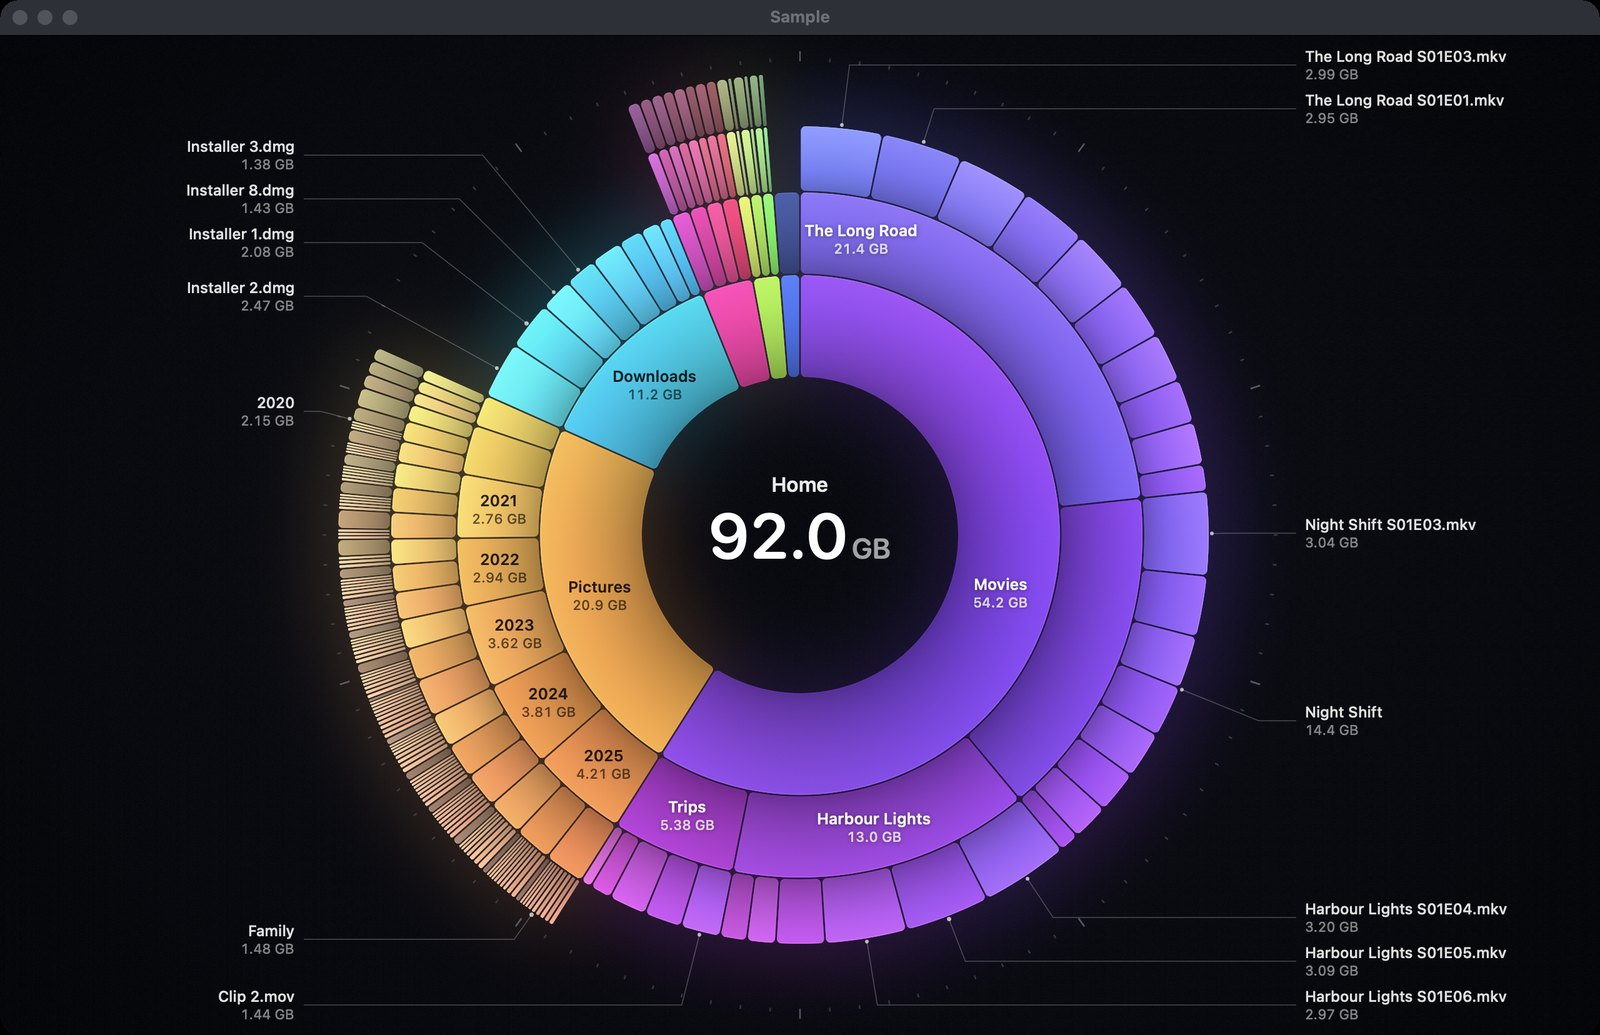
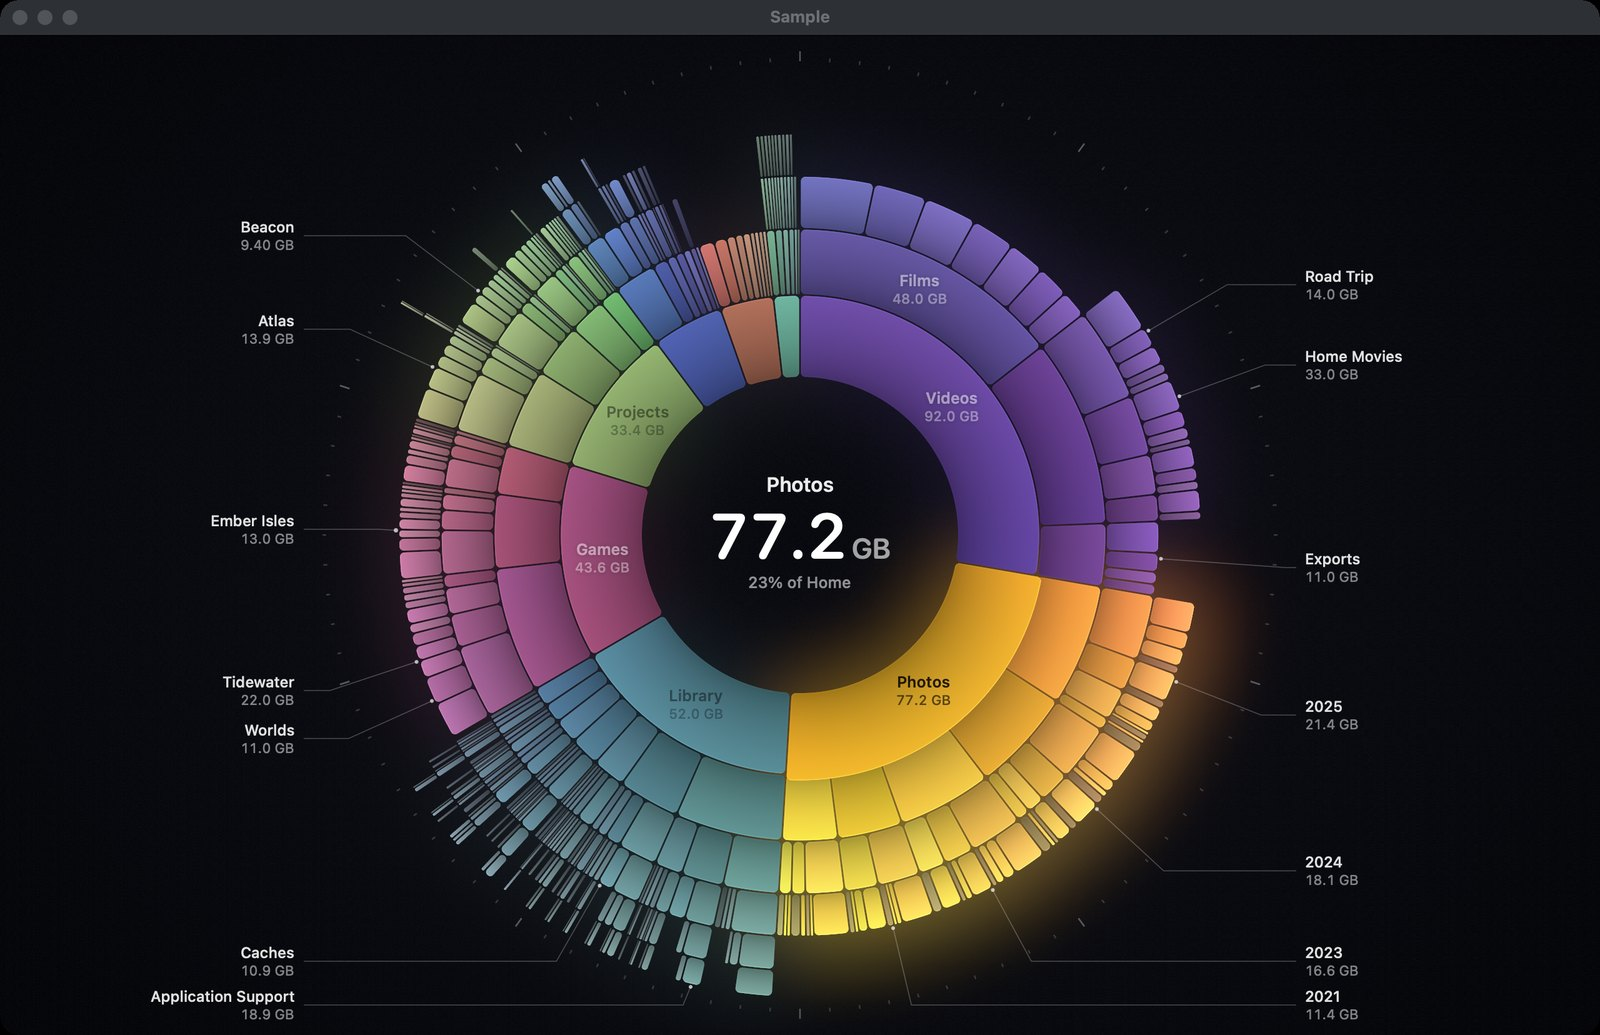
docs(sunburstkit): a sample shaped like a real home folder, and new pictures
The example's sample was built for testing: hundreds of near-equal files
made the edge of the ring bristle, and one branch took half of it. It's
now shaped like a real home folder: seven branches of different sizes,
some flat, some a few levels deep and a few that go on and on, with
photos and music at their real sizes, gathered where they're too small
to draw. The README shows it with Photos pointed at, and zoomed in.

diff --git a/Examples/FolderMap/Sources/FolderMap/FileTree.swift b/Examples/FolderMap/Sources/FolderMap/FileTree.swift
@@ -96,55 +96,144 @@ extension FileTree {
         return total
     }
 
-    /// A made-up home folder, the same every time, for a first look without reading the disk.
+    /// A made-up home folder, the same every time, for a first look without reading the disk. It's shaped like a real one:
+    /// some branches flat, some a few levels deep, and a few that go on and on, with sizes split unevenly at every level.
     static func sample() -> FileTree {
         var tree = FileTree(rootName: "Home")
-        var random = SplitMix(seed: 7)
-        let gb: UInt64 = 1_000_000_000, mb: UInt64 = 1_000_000
-        func files(_ count: Int, in folder: UInt32, named name: String, ext: String, around size: UInt64) {
-            for i in 1...count {
-                let jitter = 0.35 + random.next() * 1.3
-                _ = tree.add("\(name) \(i).\(ext)", in: folder, size: UInt64(Double(size) * jitter), isFolder: false)
-            }
-        }
-        let movies = tree.add("Movies", in: 0, isFolder: true)
-        for (series, episodes) in [("Night Shift", 8), ("Harbour Lights", 6), ("The Long Road", 10)] {
-            let folder = tree.add(series, in: movies, isFolder: true)
-            for i in 1...episodes {
-                let size = UInt64(Double(2 * gb) * (0.35 + random.next() * 1.3))
-                _ = tree.add(series + String(format: " S01E%02d.mkv", i), in: folder, size: size, isFolder: false)
-            }
-        }
-        files(5, in: tree.add("Trips", in: movies, isFolder: true), named: "Clip", ext: "mov", around: 900 * mb)
+        var random = SplitMix(seed: 11)
+        let gb = 1e9, mb = 1e6
+        // Running numbers, so files with made-up names don't repeat.
+        var photo = 4100, clip = 0, track = 0, made = 0
+        let titles = ["Opening", "Low Light", "Harbour", "Undertow", "Still Water", "Northern", "Glass", "Paper Boats", "Lanterns",
+                      "Driftwood", "Slow Signal", "Homeward"]
 
-        let photos = tree.add("Pictures", in: 0, isFolder: true)
-        for year in 2019...2025 {
-            let folder = tree.add("\(year)", in: photos, isFolder: true)
-            for album in ["Summer", "Winter", "Family"] {
-                files(12, in: tree.add(album, in: folder, isFolder: true), named: "IMG", ext: "heic", around: UInt64(40 + 15 * (year - 2019)) * mb)
-            }
+        /// `count` shares that add up to 1: the first biggest, tailing off, never quite even.
+        func shares(_ count: Int, steepness: Double) -> [Double] {
+            let weights = (0..<count).map { pow(Double($0 + 1), -steepness) * (0.75 + 0.5 * random.next()) }
+            let total = weights.reduce(0, +)
+            return weights.map { $0 / total }
+        }
+        func folder(_ name: String, in parent: UInt32) -> UInt32 { tree.add(name, in: parent, isFolder: true) }
+        func file(_ name: String, in parent: UInt32, size: Double) { _ = tree.add(name, in: parent, size: UInt64(size), isFolder: false) }
+        func files(_ count: Int, in parent: UInt32, size: Double, steepness: Double = 0.8, name: (Int) -> String) {
+            for (i, share) in shares(count, steepness: steepness).enumerated() { file(name(i), in: parent, size: size * share) }
         }
 
-        let music = tree.add("Music", in: 0, isFolder: true)
-        for artist in ["Aurora Lane", "The Quiet Hours", "Field Notes", "Northbound"] {
-            let folder = tree.add(artist, in: music, isFolder: true)
-            for album in ["First Light", "Second Wind"] {
-                files(10, in: tree.add(album, in: folder, isFolder: true), named: "Track", ext: "flac", around: 35 * mb)
+        /// A folder tree `size` big, at most `depth` levels further down: some files of its own, and a few folders that split
+        /// what's left unevenly. Most stop after a level or two; about one in three goes on as deep as it may, which is what
+        /// gives a real disk its long, thin branches.
+        func grow(_ parent: UInt32, size: Double, depth: Int, folders: [String], files fileNames: [String], forks: Int = 3) {
+            let own = depth == 0 ? size : size * (0.1 + random.next() * 0.3)
+            let start = Int(random.next() * Double(fileNames.count))
+            files(1 + Int(random.next() * 3), in: parent, size: own, steepness: 1.2) { i in
+                made += 1
+                let name = fileNames[(start + i) % fileNames.count]
+                let dot = name.lastIndex(of: ".") ?? name.endIndex
+                return name[..<dot] + "-\(made)" + name[dot...]
+            }
+            guard depth > 0 else { return }
+            let first = Int(random.next() * Double(folders.count))
+            let count = min(1 + Int(random.next() * Double(forks)), folders.count)
+            for (i, share) in shares(count, steepness: 1.15).enumerated() {
+                let child = folder(folders[(first + i) % folders.count], in: parent)
+                let next = random.next() < 0.33 ? depth - 1 : max(depth - 2 - Int(random.next() * 2), 0)
+                grow(child, size: (size - own) * share, depth: next, folders: folders, files: fileNames, forks: max(forks - 1, 2))
             }
         }
 
-        let code = tree.add("Projects", in: 0, isFolder: true)
-        for project in ["atlas", "beacon", "compass"] {
-            let folder = tree.add(project, in: code, isFolder: true)
-            files(30, in: tree.add("node_modules", in: folder, isFolder: true), named: "module", ext: "js", around: 12 * mb)
-            files(20, in: tree.add("build", in: folder, isFolder: true), named: "object", ext: "o", around: 8 * mb)
-            files(25, in: tree.add("src", in: folder, isFolder: true), named: "file", ext: "swift", around: 1 * mb)
+        // Films side by side, and home movies by year: two levels.
+        let videos = folder("Videos", in: 0)
+        files(7, in: folder("Films", in: videos), size: 48 * gb, steepness: 0.45) {
+            ["Northern Lights", "The Quiet Harbour", "Paper Moons", "Long Way Home", "Saltwater", "Glasshouse", "Midnight Garden"][$0] + ".mkv"
+        }
+        let movies = folder("Home Movies", in: videos)
+        for (i, event) in ["Road Trip", "Holidays", "Birthdays", "Weekends"].enumerated() {
+            files(5 - i, in: folder(event, in: movies), size: [14, 9, 6, 4][i] * gb, steepness: 0.9) { _ in
+                clip += 1
+                return "Clip \(String(format: "%03d", clip)).mov"
+            }
+        }
+        files(4, in: folder("Exports", in: videos), size: 11 * gb, steepness: 0.7) { "Edit \($0 + 1).mp4" }
+
+        // Photos as a phone takes them: hundreds of a few MB in each album, too small to draw one by one, and a few videos.
+        let photos = folder("Photos", in: 0)
+        let albums = ["Summer", "Trips", "Family", "Weddings", "Winter", "Garden", "City Walks", "Concerts"]
+        for (i, year) in ["2025", "2024", "2023", "2022", "2021"].enumerated() {
+            let yearFolder = folder(year, in: photos)
+            for k in 0..<(4 - i / 2) {
+                let album = folder(albums[(i * 3 + k) % albums.count], in: yearFolder)
+                for _ in 0..<(80 + Int(random.next() * 220)) {
+                    photo += 1 + Int(random.next() * 4)
+                    file("IMG_\(photo).heic", in: album, size: (2.5 + random.next() * 5) * mb)
+                }
+                for _ in 0..<(1 + Int(random.next() * 3)) {
+                    photo += 1 + Int(random.next() * 4)
+                    file("IMG_\(photo).mov", in: album, size: (0.4 + pow(random.next(), 2) * 4.6) * gb)
+                }
+            }
         }
 
-        let documents = tree.add("Documents", in: 0, isFolder: true)
-        files(40, in: tree.add("Scans", in: documents, isFolder: true), named: "Scan", ext: "pdf", around: 25 * mb)
-        files(60, in: tree.add("Notes", in: documents, isFolder: true), named: "Note", ext: "md", around: 2 * mb)
-        files(8, in: tree.add("Downloads", in: 0, isFolder: true), named: "Installer", ext: "dmg", around: 1500 * mb)
+        // The Library: app support, caches and containers, many levels deep, as on any Mac.
+        let library = folder("Library", in: 0)
+        let appFolders = ["Application Support", "Caches", "Containers", "Developer", "Group Containers", "Logs", "Mail"]
+        let inner = ["Data", "Cache", "Versions", "Resources", "Models", "Storage", "Blobs", "Index", "Snapshots", "Media", "Shared", "Current"]
+        for (k, share) in shares(appFolders.count, steepness: 0.9).enumerated() {
+            let part = folder(appFolders[k], in: library)
+            let apps = ["Sketchbook", "Waveform", "Tidewater", "Notebook", "Studio", "Atlas", "Lens", "Mapper"]
+            for (j, appShare) in shares(3 + k % 4, steepness: 1.0).enumerated() {
+                grow(folder(apps[(k * 2 + j) % apps.count], in: part), size: 52 * gb * share * appShare, depth: 5 - (k + j) % 3,
+                     folders: inner, files: ["data.db", "cache.bin", "index.store", "blob.dat", "model.mlpackage", "store.sqlite"])
+            }
+        }
+
+        // Projects: the work itself is small; renders and builds are big; node_modules goes on and on.
+        let projects = folder("Projects", in: 0)
+        for (p, name) in ["Atlas", "Beacon", "Compass", "Driftwood"].enumerated() {
+            let project = folder(name, in: projects)
+            let lower = name.lowercased()
+            files(3, in: folder("Renders", in: project), size: [9, 6, 4, 2][p] * gb, steepness: 0.7) { "\(lower)_shot_\(($0 + 1) * 10).exr" }
+            files(2, in: folder("Builds", in: project), size: [3, 2, 1.4, 0.8][p] * gb, steepness: 0.6) { "\(lower)-1.\($0 + 2).zip" }
+            grow(folder("node_modules", in: project), size: [1.6, 1.1, 0.8, 0.5][p] * gb, depth: 6,
+                 folders: ["@babel", "core", "lib", "dist", "esm", "vendor", "plugins", "utils", "types", "build"],
+                 files: ["index.js", "bundle.js", "types.d.ts", "binding.node", "worker.wasm"], forks: 4)
+            grow(folder("Source", in: project), size: 0.3 * gb, depth: 4,
+                 folders: ["Sources", "Views", "Model", "Tests", "Resources", "Assets"], files: ["Main.swift", "View.swift", "Model.swift", "Icon.png"])
+        }
+
+        // Games: a few big data packs, mods and saves.
+        let games = folder("Games", in: 0)
+        for (g, name) in ["Tidewater", "Ember Isles", "Skyline Racer"].enumerated() {
+            let game = folder(name, in: games)
+            let data = folder("Data", in: game)
+            for (l, level) in ["Worlds", "Audio", "Textures"].enumerated() {
+                files(3, in: folder(level, in: data), size: [20, 12, 8][g] * gb * [0.55, 0.25, 0.2][l], steepness: 0.8) { "\(level.lowercased())_\($0 + 1).pak" }
+            }
+            files(3, in: folder("Mods", in: game), size: [2, 1, 0.6][g] * gb, steepness: 0.9) { "mod_\($0 + 1).zip" }
+        }
+
+        // Music as files are: albums of ten or so tracks, each a few dozen MB.
+        let music = folder("Music", in: 0)
+        let records = ["First Light", "Low Tide", "Night Drive", "Afterglow", "Blue Hour", "Second Wind"]
+        for (i, artist) in ["Aurora Lane", "The Quiet Hours", "Lumen Drift", "Northbound", "Coastal Radio", "Paper Lanterns"].enumerated() {
+            let artistFolder = folder(artist, in: music)
+            for r in 0..<(1 + (i + 1) % 3) {
+                let record = folder(records[(i + r * 2) % records.count], in: artistFolder)
+                for n in 0..<(9 + Int(random.next() * 5)) {
+                    track += 1
+                    file(String(format: "%02d ", n + 1) + titles[track % titles.count] + ".flac", in: record, size: (28 + random.next() * 34) * mb)
+                }
+            }
+        }
+
+        // Documents: some kept flat, some filed away many folders deep.
+        let documents = folder("Documents", in: 0)
+        grow(documents, size: 16 * gb, depth: 5, folders: ["Work", "Clients", "2024", "2023", "Reports", "Scans", "Studies", "Taxes", "Archive", "Drafts"],
+             files: ["Report.pdf", "Proposal.key", "Budget.numbers", "Scan.pdf", "Notes.md", "Slides.pdf", "Dataset.csv"], forks: 5)
+
+        // Downloads: flat, as downloads are.
+        files(9, in: folder("Downloads", in: 0), size: 12 * gb, steepness: 0.7) { n in
+            ["Installer.dmg", "Archive.zip", "Fonts.zip", "Dataset.csv", "Backup.tar", "Slides.key", "Recording.m4a", "Manual.pdf", "Photos.zip"][n]
+        }
         tree.finish()
         return tree
     }

diff --git a/README.md b/README.md
@@ -4,7 +4,7 @@ A sunburst chart for macOS, drawn with Metal. Any tree, such as a disk, a budget
 middle, each piece's angle set by its size. Point at a piece to light its branch, click to zoom into it, and click the
 middle to go back out.
 
-![A sunburst of a home folder: Movies, Pictures, Downloads and more as coloured wedges around the total in the middle, with names on the bigger pieces and beside the ring](docs/sunburst.jpg)
+![A sunburst of a made-up home folder with Photos pointed at: its golden branch glows from the middle to the edge while Videos, Games, Library and Projects step back, with names beside the ring and 77.2 GB in the middle](docs/sunburst.jpg)
 
 <sub>The pictures show the example app's made-up sample.</sub>
 
@@ -66,10 +66,11 @@ chart.show(otherTree)               // a different tree: back to its root
 chart.onOpen = { node in … }        // a click on a file, say
 ```
 
-The [example app](Examples/FolderMap) is a complete Mac app in under 300 lines: it shows a folder, or a made-up sample.
+The [example app](Examples/FolderMap) is a complete Mac app: it shows a folder, or a made-up sample shaped like a real home
+folder, and lets agents in when you ask.
 Run it with `swift run` in its folder.
 
-![The same chart zoomed into Movies: its series fill the ring, and the middle says 54.2 GB, 59% of Home](docs/zoomed.jpg)
+![The same chart zoomed into Photos: years in the first ring, albums and their videos outside them, and the middle saying 77.2 GB, 23% of Home](docs/zoomed.jpg)
 
 ## Your tree: `SunburstTree`
 
